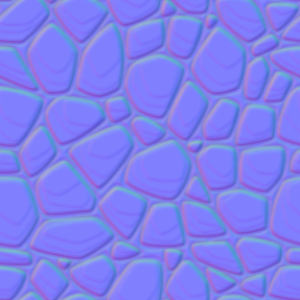
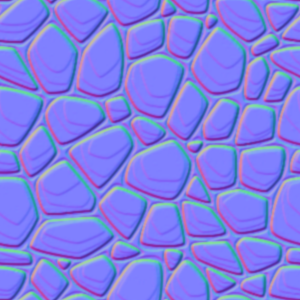
fixed rotation problem with sprites and fixed renderer adapter in standardBatch

Changed region(s): [[0.0, 0.0, 1.0, 1.0], [0.0, 0.0, 0.06, 0.06]]

diff --git a/gdxmachine-sandbox-source/src/main/kotlin/com/disgraded/gdxmachine/sandbox/source/TestScene.kt b/gdxmachine-sandbox-source/src/main/kotlin/com/disgraded/gdxmachine/sandbox/source/TestScene.kt
@@ -1,8 +1,10 @@
 package com.disgraded.gdxmachine.sandbox.source
 
 import com.badlogic.gdx.graphics.Texture
+import com.disgraded.gdxmachine.core.api.graphics.drawable.Drawable
 import com.disgraded.gdxmachine.core.api.graphics.drawable.Light
 import com.disgraded.gdxmachine.core.api.graphics.drawable.Sprite
+import com.disgraded.gdxmachine.core.api.graphics.utils.Color
 import com.disgraded.gdxmachine.core.api.scene.Scene
 
 
@@ -14,7 +16,8 @@ class TestScene : Scene() {
 
     override fun initialize() {
         context.graphics.createViewport()
-        context.graphics.getViewport().enableLights()
+//        context.graphics.getViewport().enableLights()
+//        context.graphics.getViewport().ambientColor = Color.WARM_WHITE
 //        context.graphics.getViewport().project(.5f, 0f, .5f, 1f)
         val wallTexture = context.resources.get<Texture>("initial", "wall")
         val wallNormalTexture = context.resources.get<Texture>("initial", "wall_normal")
@@ -22,22 +25,32 @@ class TestScene : Scene() {
 
         val startX = -800
         val startY = -500
-        for (i in 0..5) {
+        for (i in 0..4) {
             for(j in 0..5) {
                 val background = Sprite(wallTexture)
                 background.setNormalMap(wallNormalTexture)
-                background.filter = Sprite.Filter.SEPIA
+//                background.filter = Sprite.Filter.TIT
                 background.x = startX + wallTexture.width.toFloat() * j
                 background.y = startY + wallTexture.height.toFloat() * i
                 this.background.add(background)
             }
         }
 
-        player = Sprite(playerTexture)
-        player.setScale(.5f)
-        player.filter = Sprite.Filter.SEPIA
+        player = Sprite(wallNormalTexture)
+//        player.setScale(.5f)
+//        player.setMask(playerTexture)
+        player.filter = Sprite.Filter.TINT
+        player.setColor(Color.BLUE)
+        player.setColor(Drawable.Corner.TOP_RIGHT, Color.BROWN)
+        player.x = -100f
+        player.y = -100f
+        player.setAnchor(.5f)
 
         light = Light()
+        light.color = Color.CYAN
+        light.x = .2f
+        light.y = .2f
+        light.z = .075f
     }
 
     override fun update(deltaTime: Float) {
@@ -47,8 +60,10 @@ class TestScene : Scene() {
         context.graphics.getViewport().draw(player)
         context.graphics.getViewport().draw(light)
 
-        light.x += .1f * deltaTime
-        light.y += .1f * deltaTime
+        println(context.graphics.getFPS())
+//        player.x += 40f * deltaTime
+        player.rotation += 100f * deltaTime
+//        light.z += .1f * deltaTime
     }
 
     override fun pause() {

diff --git a/gdxmachine-core/src/main/kotlin/com/disgraded/gdxmachine/core/api/graphics/StandardBatch.kt b/gdxmachine-core/src/main/kotlin/com/disgraded/gdxmachine/core/api/graphics/StandardBatch.kt
@@ -35,9 +35,11 @@ class StandardBatch: DrawableBatch {
     private fun adaptCurrentRenderer(drawable: Drawable) {
         val type = getRendererType(drawable) ?: throw RuntimeException("Wrong drawable type sent to the standard batch [${drawable.type}]")
         if (currentRendererType != type) {
-            if (currentRenderer != null) gpuCalls += currentRenderer!!.end()
+            if (currentRenderer != null && currentRenderer!!.active) {
+                gpuCalls += currentRenderer!!.end()
+            }
             currentRendererType = type
-            val newRenderer = rendererMap[type] ?: throw RuntimeException("Renderer with type $type isn't registered yet")
+            val newRenderer = rendererMap[type] ?: throw RuntimeException("Renderer for type $type isn't registered yet")
             currentRenderer = newRenderer
             currentRenderer!!.begin()
         }

diff --git a/gdxmachine-core/src/main/kotlin/com/disgraded/gdxmachine/core/api/graphics/renderer/SpriteStandardRenderer.kt b/gdxmachine-core/src/main/kotlin/com/disgraded/gdxmachine/core/api/graphics/renderer/SpriteStandardRenderer.kt
@@ -115,8 +115,8 @@ class SpriteStandardRenderer : Renderer {
         val sizeX = sprite.getTexture().regionWidth * sprite.scaleX
         val sizeY = sprite.getTexture().regionHeight * sprite.scaleY
 
-        var x1 = sprite.x - (sizeX * sprite.anchorX)
-        var y1 = sprite.y - (sizeY * sprite.anchorY)
+        var x1 = 0 - (sizeX * sprite.anchorX)
+        var y1 = 0 - (sizeY * sprite.anchorY)
         var x2 = x1
         var y2 = y1 + sizeY
         var x3 = x1 + sizeX
@@ -142,6 +142,15 @@ class SpriteStandardRenderer : Renderer {
             x4 = x1 + (x3 - x2)
             y4 = y3 - (y2 - y1)
         }
+
+        x1 += sprite.x
+        x2 += sprite.x
+        x3 += sprite.x
+        x4 += sprite.x
+        y1 += sprite.y
+        y2 += sprite.y
+        y3 += sprite.y
+        y4 += sprite.y
 
         vertices[idx] = x1
         vertices[idx + 1] = y1

diff --git a/gdxmachine-core/src/main/kotlin/com/disgraded/gdxmachine/core/api/graphics/renderer/SpriteMaskRenderer.kt b/gdxmachine-core/src/main/kotlin/com/disgraded/gdxmachine/core/api/graphics/renderer/SpriteMaskRenderer.kt
@@ -118,8 +118,8 @@ class SpriteMaskRenderer : Renderer {
         val sizeX = sprite.getTexture().regionWidth * sprite.scaleX
         val sizeY = sprite.getTexture().regionHeight * sprite.scaleY
 
-        var x1 = sprite.x - (sizeX * sprite.anchorX)
-        var y1 = sprite.y - (sizeY * sprite.anchorY)
+        var x1 = 0 - (sizeX * sprite.anchorX)
+        var y1 = 0 - (sizeY * sprite.anchorY)
         var x2 = x1
         var y2 = y1 + sizeY
         var x3 = x1 + sizeX
@@ -145,6 +145,15 @@ class SpriteMaskRenderer : Renderer {
             x4 = x1 + (x3 - x2)
             y4 = y3 - (y2 - y1)
         }
+
+        x1 += sprite.x
+        x2 += sprite.x
+        x3 += sprite.x
+        x4 += sprite.x
+        y1 += sprite.y
+        y2 += sprite.y
+        y3 += sprite.y
+        y4 += sprite.y
 
         vertices[idx] = x1
         vertices[idx + 1] = y1

diff --git a/gdxmachine-core/src/main/kotlin/com/disgraded/gdxmachine/core/api/graphics/drawable/Light.kt b/gdxmachine-core/src/main/kotlin/com/disgraded/gdxmachine/core/api/graphics/drawable/Light.kt
@@ -8,6 +8,6 @@ class Light: Drawable(Type.LIGHT) {
     val falloff = Vector3(.4f, 3f, 20f)
 
     init {
-        z = .075f
+        z = .1f
     }
 }
